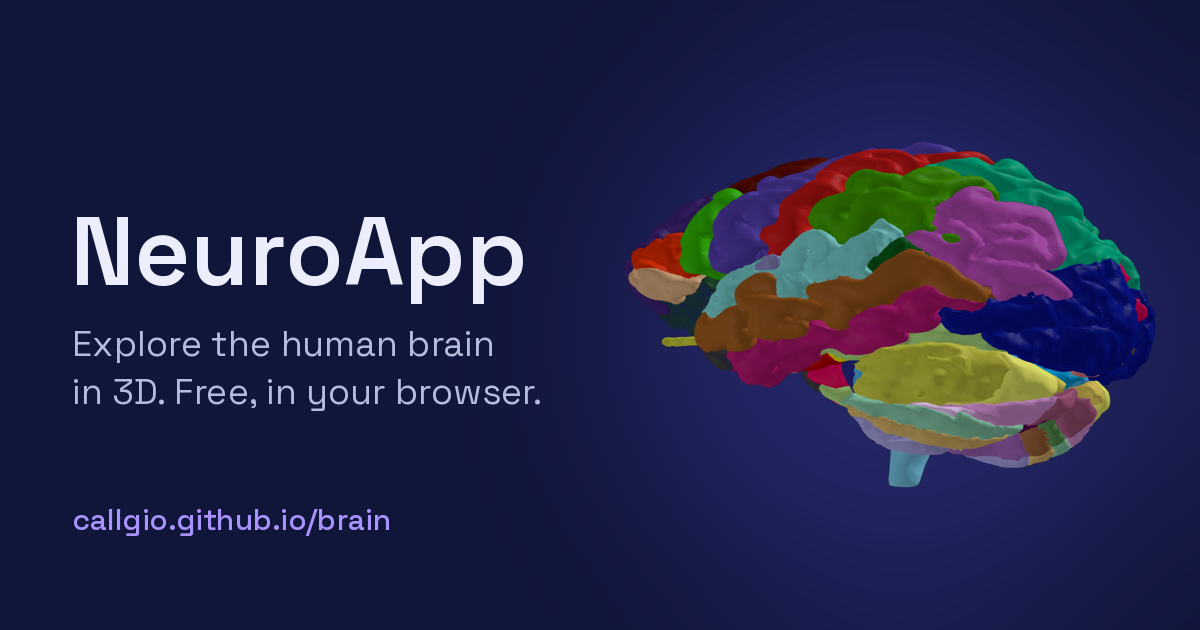
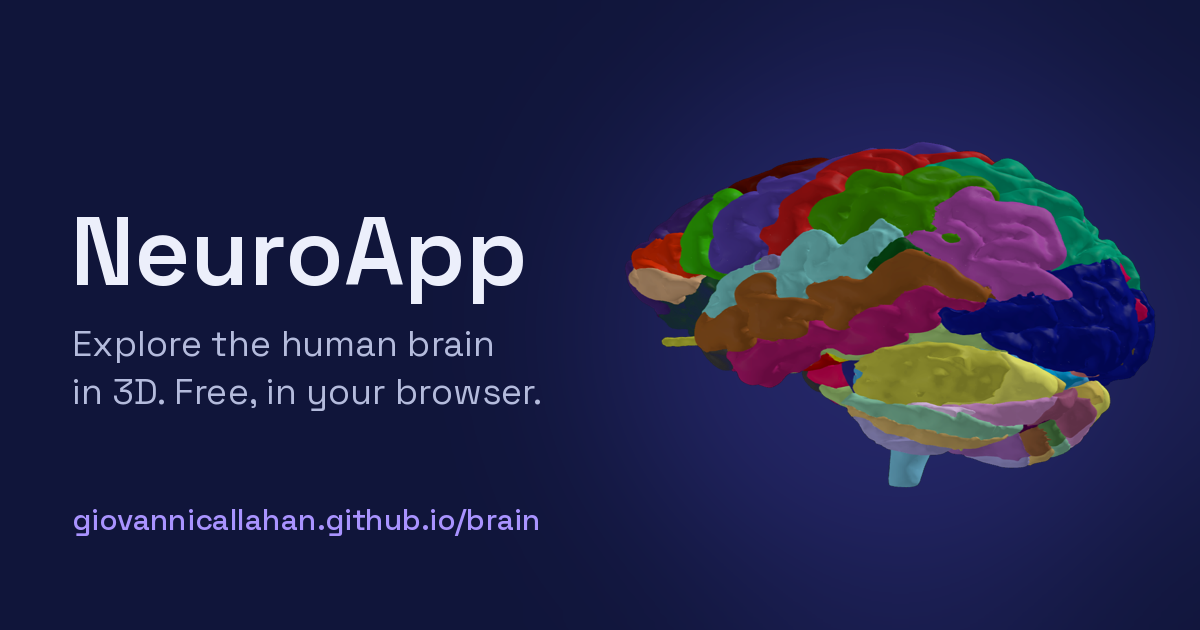
Update links for the giovannicallahan GitHub username
Claude-Session: https://claude.ai/code/session_01246YmzEWtxj8Yhw6KJvcPP

Changed region(s): [[0.0617, 0.8143, 0.4625, 0.8444]]

diff --git a/viewer/public/index.html b/viewer/public/index.html
@@ -583,11 +583,11 @@ footer a:hover{color:var(--text)}
 
 <!-- ══ FOOTER ══ -->
 <footer role="contentinfo">
-  <span>Built by <a href="https://callgio.github.io/" target="_blank" rel="noopener noreferrer">Giovanni Callahan</a></span>
+  <span>Built by <a href="https://giovannicallahan.github.io/" target="_blank" rel="noopener noreferrer">Giovanni Callahan</a></span>
   <span class="footer-sep"></span>
-  <a href="https://github.com/callGio/neuroapp" target="_blank" rel="noopener noreferrer">Source code</a>
+  <a href="https://github.com/giovannicallahan/neuroapp" target="_blank" rel="noopener noreferrer">Source code</a>
   <span class="footer-sep"></span>
-  <a id="notice-link" href="https://github.com/callGio/neuroapp/blob/main/NOTICE.md" target="_blank" rel="noopener noreferrer">3D models: SPL/NAC Brain Atlas (Halle et al., 2017)</a>
+  <a id="notice-link" href="https://github.com/giovannicallahan/neuroapp/blob/main/NOTICE.md" target="_blank" rel="noopener noreferrer">3D models: SPL/NAC Brain Atlas (Halle et al., 2017)</a>
   <span class="footer-sep"></span>
   <span>For learning only. Not for medical use.</span>
 </footer>

diff --git a/docs/tasks/tier5-welcome-redesign.md b/docs/tasks/tier5-welcome-redesign.md
@@ -120,9 +120,9 @@ Sections, top to bottom:
    primary "Start exploring" button (same URL rule as the hero, including `level`).
 
 7. **Footer** (small, `--muted`): "Built by Giovanni Callahan" linking to
-   `https://callgio.github.io/`; "Source code" → `https://github.com/callGio/neuroapp`;
+   `https://giovannicallahan.github.io/`; "Source code" → `https://github.com/giovannicallahan/neuroapp`;
    "3D models: SPL/NAC Brain Atlas (Halle et al., 2017)" → `./NOTICE.html` if it exists,
-   otherwise the GitHub NOTICE.md URL `https://github.com/callGio/neuroapp/blob/main/NOTICE.md`;
+   otherwise the GitHub NOTICE.md URL `https://github.com/giovannicallahan/neuroapp/blob/main/NOTICE.md`;
    and the line "For learning only. Not for medical use." All external links get
    `rel="noopener noreferrer"` and `target="_blank"`.
 

diff --git a/README.md b/README.md
@@ -14,7 +14,7 @@ It is designed for two kinds of learners at once:
 
 Every factual statement in the lessons cites an open, checkable source.
 
-**Live demo:** https://callgio.github.io/neuroapp/ (works in any modern desktop browser;
+**Live demo:** https://giovannicallahan.github.io/neuroapp/ (works in any modern desktop browser;
 the first load downloads about 55 MB of 3D models).
 
 > Educational use only. Not medical advice. The underlying atlas is not FDA-reviewed and
@@ -71,7 +71,7 @@ You need Python 3 (already on macOS and most Linux systems). No accounts, no API
 nothing to install.
 
 ```bash
-git clone https://github.com/callGio/neuroapp.git
+git clone https://github.com/giovannicallahan/neuroapp.git
 cd neuroapp/viewer/public
 python3 -m http.server 8080 --bind 127.0.0.1
 ```
